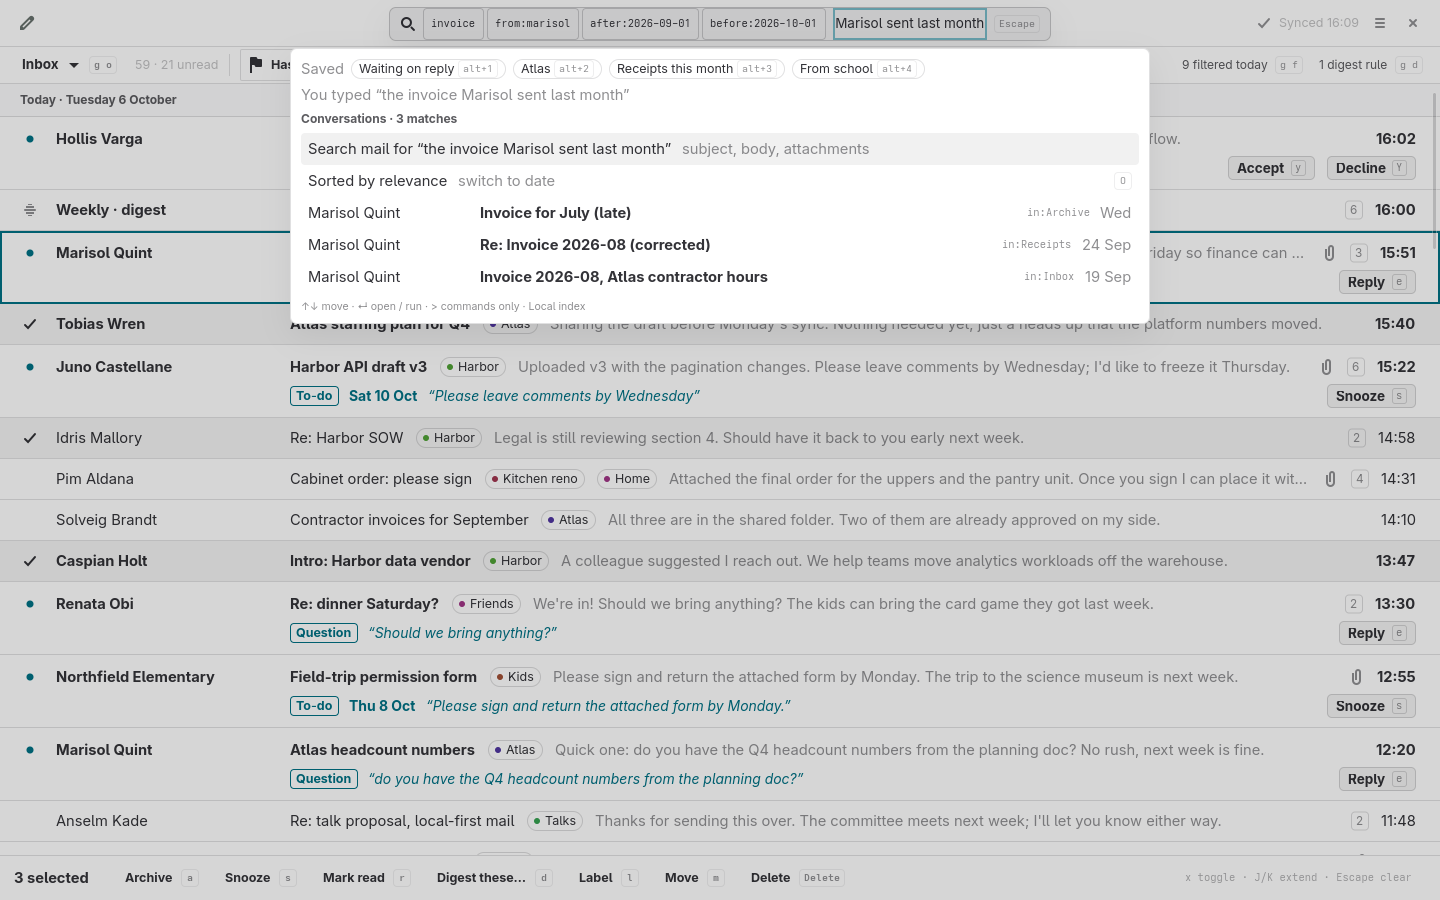
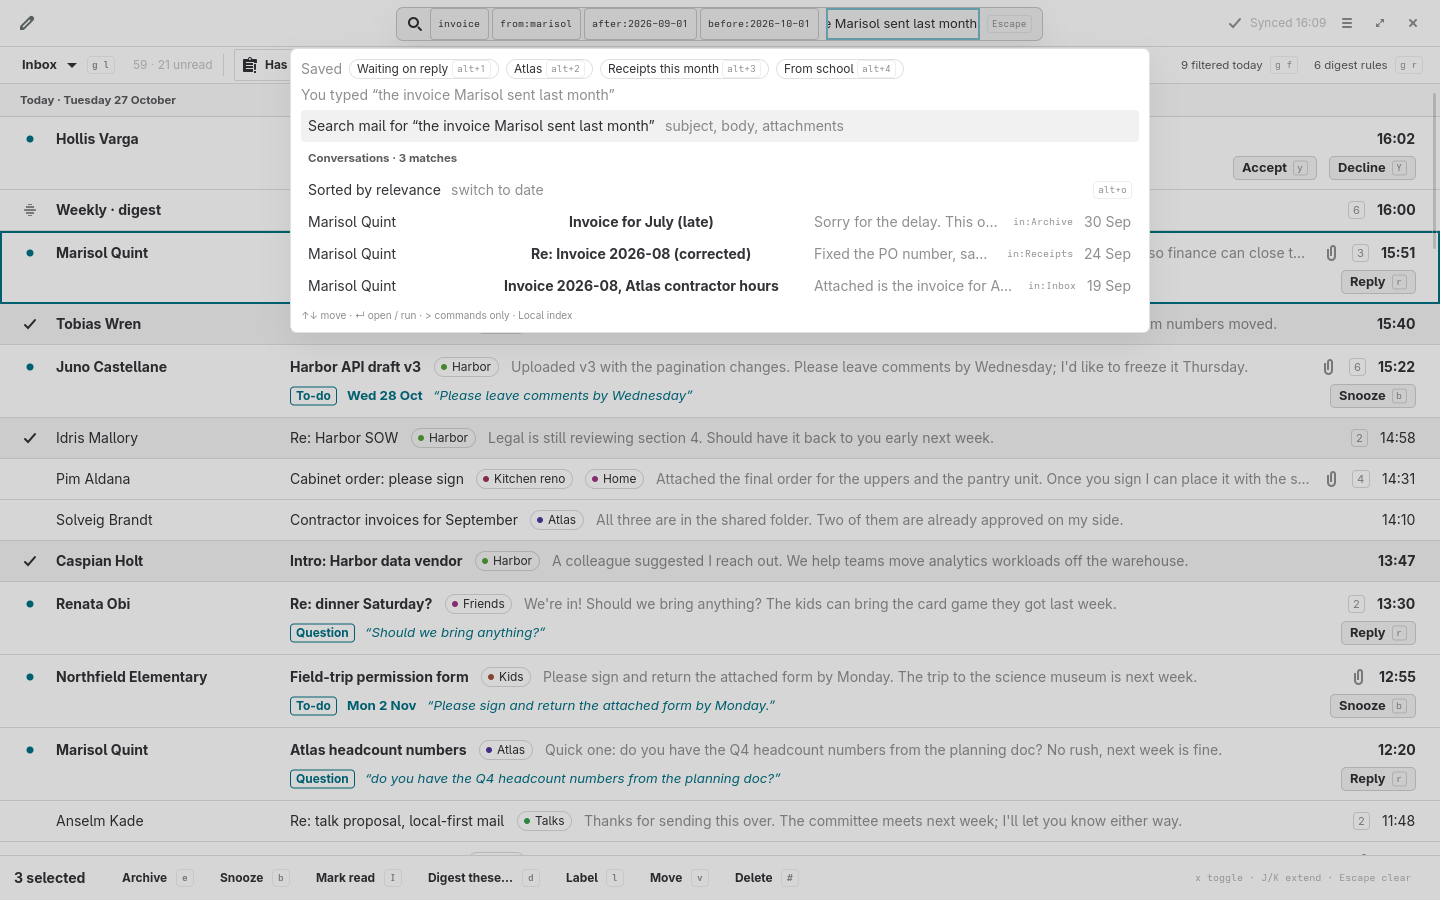
docs(release): screenshots and notes for 0.5.0
The README and the site still showed 6 October's inbox and said 0.4,
with the Mac app "built from the checkout, not released". 0.5.0 is the
first release whose workflow publishes the Mac zip, so the README, the
guide's introduction and FAQ say how to open an ad-hoc signed app, the
status section names what landed since 0.4, and the six site pictures
are retaken from the demo over today's main (crates/postio-gtk/examples/
shot.rs, screens 01, 02, 04, 06, 07, 10), with a Mac one from
scripts/macos-shot.sh. docs/releases/0.5.0.md is the release's notes,
written ahead so release-prepare.sh renders them rather than a draft.

Claude-Session: https://claude.ai/code/session_011FdjdjYkQaPmiDEzV91ckA

diff --git a/README.md b/README.md
@@ -25,9 +25,9 @@ one — **frontends over one Rust engine**, not a toolkit ported. It works
 fully offline after its first sync, and never sends anything you did not ask
 it to.
 
-**Postio 0.4.0 is an alpha.** It is more complete than the number suggests,
+**Postio 0.5.0 is an alpha.** It is more complete than the number suggests,
 but it is early software: expect rough edges, read the
-[status](#whats-in-04-and-what-is-not) section before switching, and keep
+[status](#whats-in-05-and-what-is-not) section before switching, and keep
 your current client around until you trust it.
 
 - **Home page and tour:** <https://dlapiduz.github.io/postio/>
@@ -79,10 +79,9 @@ your current client around until you trust it.
 ## Install
 
 Postio runs on Linux under Wayland (GTK 4.20 and libadwaita 1.7 or newer;
-the maintainer's machine is Fedora 44), and on macOS 14 or newer. The Linux
-build is the complete one and has the three ways in below; the macOS build is
-[further down](#macos), is younger, and is honest about what it cannot do
-yet.
+the maintainer's machine is Fedora 44), and on macOS 14 or newer on Apple
+silicon. The Linux build has the three ways in below; the macOS build is
+[further down](#macos), and from 0.5.0 it is a download too.
 
 ### 1. The Flatpak bundle
 
@@ -155,6 +154,9 @@ same mail as the desktop app, one of them open at a time; see
 
 ### macOS
 
+![Postio on the Mac: the same inbox, as a native SwiftUI/AppKit window,
+with an invitation, questions and to-dos on their rows](site/assets/img/focus-macos.png)
+
 A native SwiftUI/AppKit application over the same engine, through a UniFFI
 boundary ([ADR 0019](docs/decisions/0019-macos-frontend.md)), on `main`
 since [#1306](https://github.com/dlapiduz/postio/pull/1306). CI builds the
@@ -165,8 +167,15 @@ began, which is what made this cheap: the two frontends share the store, the
 protocols, the search index, the keymap and every presentation decision that
 has no toolkit in it.
 
-Needs Xcode (Swift 6) and the pinned Rust toolchain. There is no bundle to
-download yet — it is built from the checkout:
+Every release from 0.5.0 publishes `postio-X.Y.Z-macos-arm64.zip` on the
+[Releases page](https://github.com/dlapiduz/postio/releases), with build
+provenance and an SBOM like the Linux bundle. It is ad-hoc signed and not
+notarized, so Gatekeeper refuses it on a double click: unzip it, move
+`Postio.app` to Applications, and open it once with right-click → Open.
+Apple silicon only.
+
+To build it from the checkout instead, you need Xcode (Swift 6) and the
+pinned Rust toolchain:
 
 ```bash
 scripts/macos-build.sh      # cargo, the bindings, then swift build
@@ -306,7 +315,7 @@ Every key, type and default is in [`docs/config.md`](docs/config.md).
 **No credential ever lives in `config.toml`**: an account in the file only
 references a keyring entry.
 
-## What's in 0.4 and what is not
+## What's in 0.5 and what is not
 
 **In:** several accounts with a unified inbox; IMAP + SMTP, Gmail and JMAP
 backends; password, app-specific password and OAuth 2 sign-in; folders,
@@ -316,14 +325,18 @@ compose, reply, reply-all, forward, drafts, scheduled send and an outbox
 that never sends twice; local full-text search with operators, saved
 searches and virtual folders; contacts and contact groups grown from your
 mail; notifications; vim-style keys, a command palette, every binding
-rebindable; background sync with IDLE, full offline use, and undo.
+rebindable; background sync with IDLE, full offline use, and undo. New in
+0.5: Postio Focus on both platforms — the one dense inbox with invitations,
+questions and to-dos called out on their rows, digests, and Filtered; the
+native macOS app, released; search with a dropdown, facets and a results
+view with Files and People tabs; Contacts on both platforms; and an MCP
+server that lets an agent you connect read and act on mail you share with it.
 
-**Not yet:** filters and rules (designed, not built); AI features (a
-founding idea, deliberately after the fundamentals); Microsoft Graph;
-PGP/S-MIME; phishing and link warnings; vCard import/export. The native macOS
-frontend is on `main` and every command in the registry reaches something on
-it, but it is built from the checkout, not packaged or released — see
-[macOS](#macos) for what it does. Windows is unscheduled.
+**Not yet:** general filters and rules beyond digests and Filtered; AI
+inside Postio itself (a local model you connect over MCP is the way in, and
+it is optional); Microsoft Graph; PGP/S-MIME; phishing and link warnings. The
+macOS app is unsigned by a Developer ID and not notarized — see
+[macOS](#macos). Windows is unscheduled.
 
 Postio is alpha software. Its test suite is large and its invariants are
 machine-checked, and you should still treat it as early: it has met few

diff --git a/docs/releases/0.5.0.md b/docs/releases/0.5.0.md
@@ -1,0 +1,11 @@
+Postio 0.5.0 is an alpha, and the first release with a Mac app to download. It is the release where Postio Focus — the one dense inbox, and the four things it does to mail — became the app on both platforms, over one engine.
+
+- Postio Focus is the desktop app, on Linux and the Mac: one list of mail as it arrived; invitations, direct questions and to-dos called out on their rows with the sentence that raised them; digests on a cadence you choose; Filtered, with its reason on every row and one key to restore it, and now multi-select there as in any folder.
+- The native macOS app is released: `postio-0.5.0-macos-arm64.zip`, Apple silicon, macOS 14 or newer. It is ad-hoc signed and not notarized, so open it once with right-click → Open.
+- Search moves with you: a dropdown as you type, facets for sender, date and more, and a results view with Files and People tabs, Quick Look and save.
+- Contacts, on both platforms: the people in your mail, editable, mergeable, with vCard import and export.
+- An MCP server lets an agent you connect read the mail you share with it, and archive, move and label it. Settings shows each agent's access and revokes it. Nothing is shared until you share it.
+- The reader paints a sender's own page on paper, or the message in the app's colours; zoom, find in the message, darken a sheet, and fall back visibly when a render runs past its deadline.
+- Notifications on the Mac follow `[sync] notify_roles`, as on Linux: mail arriving in Trash, Spam or Archive no longer notifies.
+- Retrieval is sturdier: a moved message keeps its body and is not shown twice, a header-only refresh keeps the body already fetched, a refused download says so at once, a message open while the connection drops loads as soon as it returns, and an account signed in again asks its new connection for what was waiting.
+- Under the hood: mail-parser 1.0 (damaged base64 recovered instead of stored as text, RFC 2231 names and encoded words decoded across their pieces, a date's `+5` read as +05:00) and mail-builder 2.0 (control characters can no longer inject a header through an address); Turso 0.8.3 with its full-text index on tantivy 0.27; Rust 1.99.1.

diff --git a/docs/book/src/introduction.md b/docs/book/src/introduction.md
@@ -45,7 +45,7 @@ restored. And it captures a message into an Obsidian vault as a task or a
 note. A local model you run yourself can write digest summaries and spot
 questions and to-dos; without one, a built-in detector does the second.
 
-## What 0.4 does
+## What 0.5 does
 
 Several accounts with one unified inbox, over IMAP and SMTP, the Gmail API,
 or JMAP, signed in with a password, an app-specific password, or OAuth 2
@@ -57,17 +57,19 @@ full-text search with operators, pinned saved searches, and a suggestion
 when a query finds nothing. An address book with groups, grown from the
 people in your mail. Vim-style navigation and one command bar, every
 binding rebindable. Background sync with IDLE, full offline use, and
-undo.
+undo. Search with a dropdown, facets, and results with Files and People
+tabs. Contacts, on Linux and the Mac. An MCP server through which an agent
+you connect can read, and act on, the mail you share with it.
 
 ## What it deliberately doesn't do yet
 
-Postio 0.4 is an alpha. It runs on Linux (GTK4/libadwaita); a native macOS
-frontend over the same engine reads mail today but is not yet released.
-Filters and rules are designed and not built. Beyond the optional local
+Postio 0.5 is an alpha. It runs on Linux (GTK4/libadwaita) and, from 0.5,
+as a released native macOS app over the same engine. General filters and
+rules, beyond digests and Filtered, are designed and not built. Beyond the optional local
 model above there are no AI features — not because they aren't planned, but
 because shipping AI over a mediocre mail client would just produce a
 mediocre mail client with AI in it. Core mail, search, and the keyboard come
-first. PGP/S-MIME, phishing warnings and vCard import are also still to
+first. PGP/S-MIME and phishing warnings are also still to
 come, each with its own tracked issue.
 
 Ready to try it? See [Installing Postio](install.md).

diff --git a/docs/book/src/faq.md b/docs/book/src/faq.md
@@ -2,21 +2,21 @@
 
 ## Is Postio ready to use as my daily mail client?
 
-Postio 0.4 is an alpha. It supports several IMAP, Gmail or JMAP accounts
+Postio 0.5 is an alpha. It supports several IMAP, Gmail or JMAP accounts
 with a password, an app-specific password or OAuth 2, and covers the
 everyday work — reading, searching, replying, filing, snoozing, undo — with
 full offline use. If that covers your setup it's usable today, but treat it
 as early software: keep your existing client around until you're confident
 in it, and expect to file the rough edges you find.
 
-## Why Linux only?
+## Which platforms does it run on?
 
-v1 targets GTK4/libadwaita on Linux because that's where the team could
-build something excellent fastest, not because other platforms are ruled
-out. The engine underneath the UI has no GTK in it and no database code in
-the view layer — that boundary is enforced automatically — and a native
-macOS frontend over the same engine already reads mail, searches and pages.
-It is built and tested but not yet released. Windows is not scheduled.
+Linux, as a GTK4/libadwaita app and a terminal app, and macOS 14 or newer on
+Apple silicon, as a native SwiftUI/AppKit app, released from 0.5.0. Both are
+frontends over one engine that has no GTK in it and no database code in the
+view layer — that boundary is enforced automatically. The Mac download is
+ad-hoc signed and not notarized, so it is opened once with right-click →
+Open. Windows is not scheduled.
 
 ## Does Postio support multiple accounts?
 

diff --git a/docs/book/src/releases.md b/docs/book/src/releases.md
@@ -1,9 +1,13 @@
 # Release notes
 
-Every tagged release publishes a Flatpak bundle on the
-[Releases page](https://github.com/dlapiduz/postio/releases). The notes
+Every tagged release publishes a Flatpak bundle, and from 0.5.0 a macOS
+app, on the [Releases page](https://github.com/dlapiduz/postio/releases). The notes
 below are the same text the release carries; `docs/releases/` in the
 repository is where they are written.
+
+## 0.5.0
+
+{{#include ../../releases/0.5.0.md}}
 
 ## 0.4.2
 
